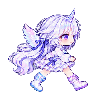
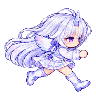
fix(runner): make Yuni sprint with Toa-like poses
Use Toa's twelve-frame run as the motion reference for Yuni while retaining her character design and normalized game atlas.

Plan: 2026-10-26-running-action-redesign

diff --git a/assets/character/locomotion/RUN_CYCLE_V3.md b/assets/character/locomotion/RUN_CYCLE_V3.md
@@ -6,7 +6,7 @@ These four transparent 4-column by 3-row source sheets replace the earlier eight
 | --- | --- | --- |
 | Aokumo Rin | `aokumo-rin-run-cycle-v3.png` | `run-00`–`run-11` |
 | Shizuki Toa | `shizuki-toa-run-cycle-v3.png` | `goth-student-run-00`–`goth-student-run-11` |
-| Ayatsuno Yuni | `ayatsuno-yuni-run-cycle-v5.png` | `moonwing-run-00`–`moonwing-run-11` |
+| Ayatsuno Yuni | `ayatsuno-yuni-run-cycle-v6.png` | `moonwing-run-00`–`moonwing-run-11` |
 | Akane Lize | `akane-lize-run-cycle-v4.png` | `akane-lize-run-00`–`akane-lize-run-11` |
 
 ## Image generation brief
@@ -15,7 +15,9 @@ Each sheet was generated with the built-in image generation tool using its chara
 
 Yuni and Lize received a second image-generation edit pass after the initial four-character refresh. Yuni's follow-up brief requested steady horn, wing, and hair silhouettes while preserving clear alternating boots. Lize's requested distinct knees and boots, counter-swinging arms, and steadier red-hair volume. Their `v3` source sheets remain in this directory for comparison. Lize's atlas config uses `v4`.
 
-Yuni's `v4` motion still read as a small twitch because both boots occupied similar positions throughout the loop. `yuni-run-pose-guide-v1.svg` and its PNG rendering specify a twelve-step near/far leg crossover: the blue near leg starts forward and moves behind, while the lavender far leg starts behind and moves forward, then they exchange again. The built-in image generation tool used this guide, Yuni's portrait, and her idle sprite as references for `ayatsuno-yuni-run-cycle-v5.png`. The atlas config now uses `v5`; the earlier Yuni sheets remain for comparison. A source alpha threshold removes faint generated color residue before runtime scaling.
+Yuni's `v4` motion still read as a small twitch because both boots occupied similar positions throughout the loop. `yuni-run-pose-guide-v1.svg` and its PNG rendering specify a twelve-step near/far leg crossover: the blue near leg starts forward and moves behind, while the lavender far leg starts behind and moves forward, then they exchange again. The built-in image generation tool used this guide, Yuni's portrait, and her idle sprite as references for `ayatsuno-yuni-run-cycle-v5.png`. The earlier Yuni sheets remain for comparison. A source alpha threshold removes faint generated color residue before runtime scaling.
+
+The `v5` crossover was visible but still read as walking: the torso stayed upright and the stride and knee lift were small. `ayatsuno-yuni-run-cycle-v6.png` uses Toa's `shizuki-toa-run-cycle-v3.png` as the mandatory twelve-pose action reference, while Yuni's portrait and idle sprite define her identity. The brief specified Toa's forward lean, high knee recovery, broad stride, pumping arms, and short flight phase, while keeping Yuni's horn, wings, and outfit. The atlas now uses `v6` with the same 768ms cycle and source alpha cleanup.
 
 ## Runtime preparation
 

diff --git a/.memory/phases/2026-10-26-running-action-redesign/P01-characters-and-entry/T02-runner-action-poses.md b/.memory/phases/2026-10-26-running-action-redesign/P01-characters-and-entry/T02-runner-action-poses.md
@@ -4,7 +4,7 @@
 
 ## Follow-up: natural run cycle
 
-- The first pass used four key poses and four independently generated in-between poses. A later follow-up replaced that run row for all four characters with cohesive twelve-pose source sheets (`assets/character/locomotion/*-run-cycle-v3.png`). Lize received a `v4` revision. Yuni's `v4` still lacked a visible leg crossover, so a twelve-pose near/far leg guide was used to produce `v5`. Runtime frames are `run-00` through `run-11` at 96x96; the selector loops them in 768ms. Old source sheets remain as versioned reference assets. The future runner must use the twelve-frame atlas cycle.
+- The first pass used four key poses and four independently generated in-between poses. A later follow-up replaced that run row for all four characters with cohesive twelve-pose source sheets (`assets/character/locomotion/*-run-cycle-v3.png`). Lize received a `v4` revision. Yuni's `v4` lacked a visible leg crossover, so a twelve-pose near/far leg guide was used to produce `v5`. That still read as walking; Yuni `v6` uses Toa's strong running poses as the action reference. Runtime frames are `run-00` through `run-11` at 96x96; the selector loops them in 768ms. Old source sheets remain as versioned reference assets. The future runner must use the twelve-frame atlas cycle.
 
 ## Goal
 
